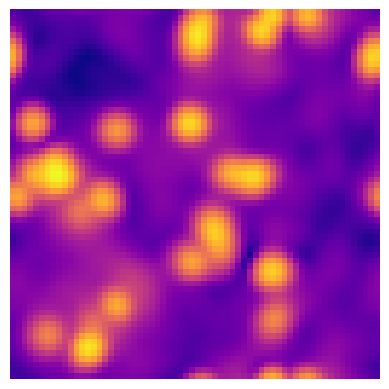
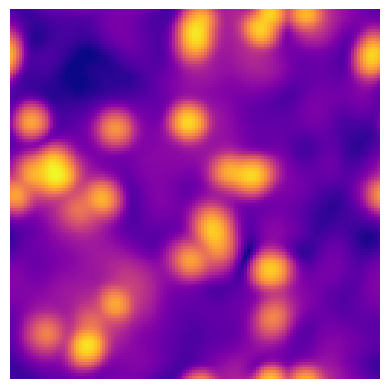
readme/fgis

diff --git a/analysis/plotSnap.py b/analysis/plotSnap.py
@@ -4,14 +4,14 @@ import h5py
 
 
 # parameters
-N       = 64     # resolution
+N       = 128     # resolution
 beta    = 0.06   # gravity
 Lbox    = 1.0/beta
 
 b = 1
 G = 1
 
-snap = 20
+snap = 0
 
 simDir = '../output/'
 
@@ -26,7 +26,7 @@ rho = f.get('/psiRe')[()]**2 + f.get('/psiIm')[()]**2
 
 # plot snapshot
 
-plt.imshow(np.log10(np.mean(rho,2)), cmap="plasma")
+plt.imshow(np.log10(np.mean(rho,2)), cmap="plasma", clim=(-1.4,1.4))
 plt.axis('off')
 plt.savefig("snap" + '%03d' % (snap) + ".png", bbox_inches='tight')
 plt.show()

diff --git a/README.md b/README.md
@@ -42,7 +42,7 @@ make install
 
 Start with a random initial condition and watch for the phase transition and formation of solitons.
 
-E.g. 64 x 64 x 64 initial condition:
+E.g. 128 x 128 x 128 initial condition (tiny perturbations):
 
 ![initial condition](analysis/snap000.png "initial condition")
 
